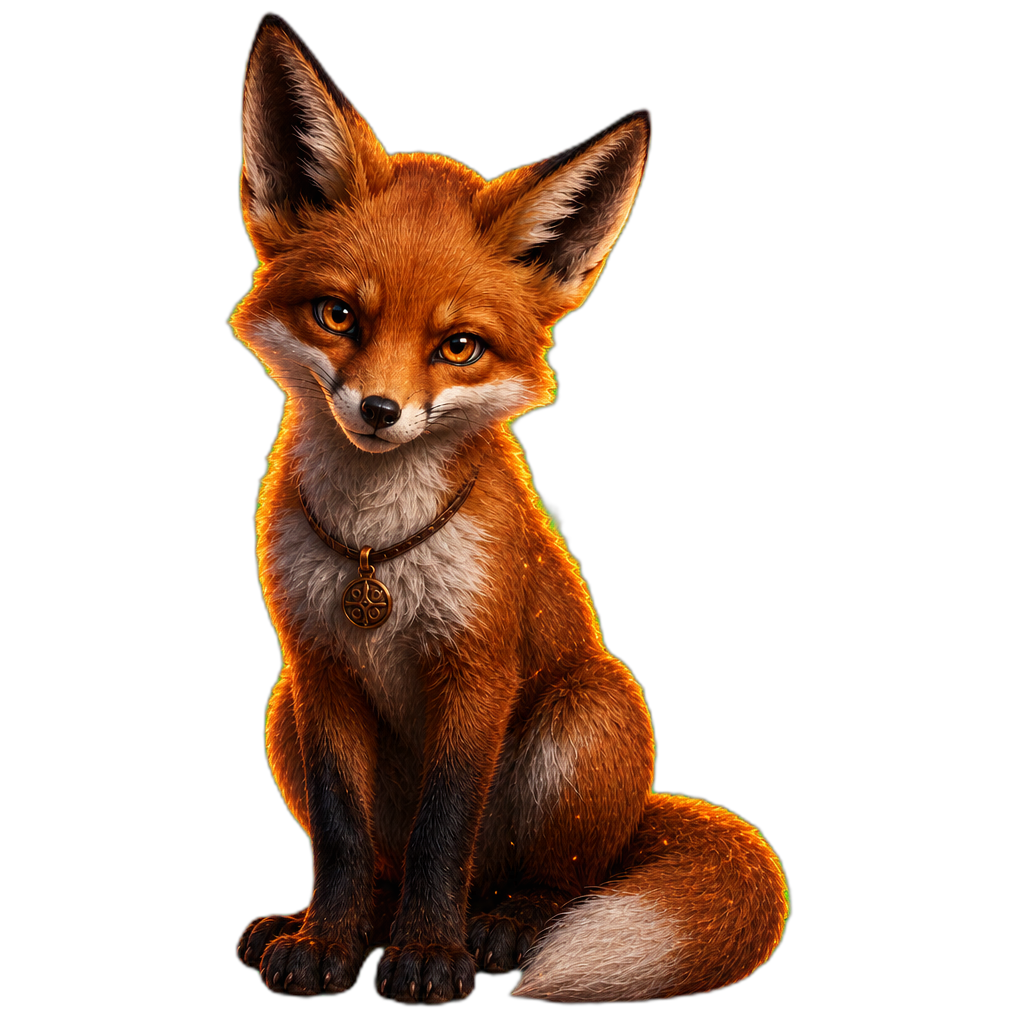
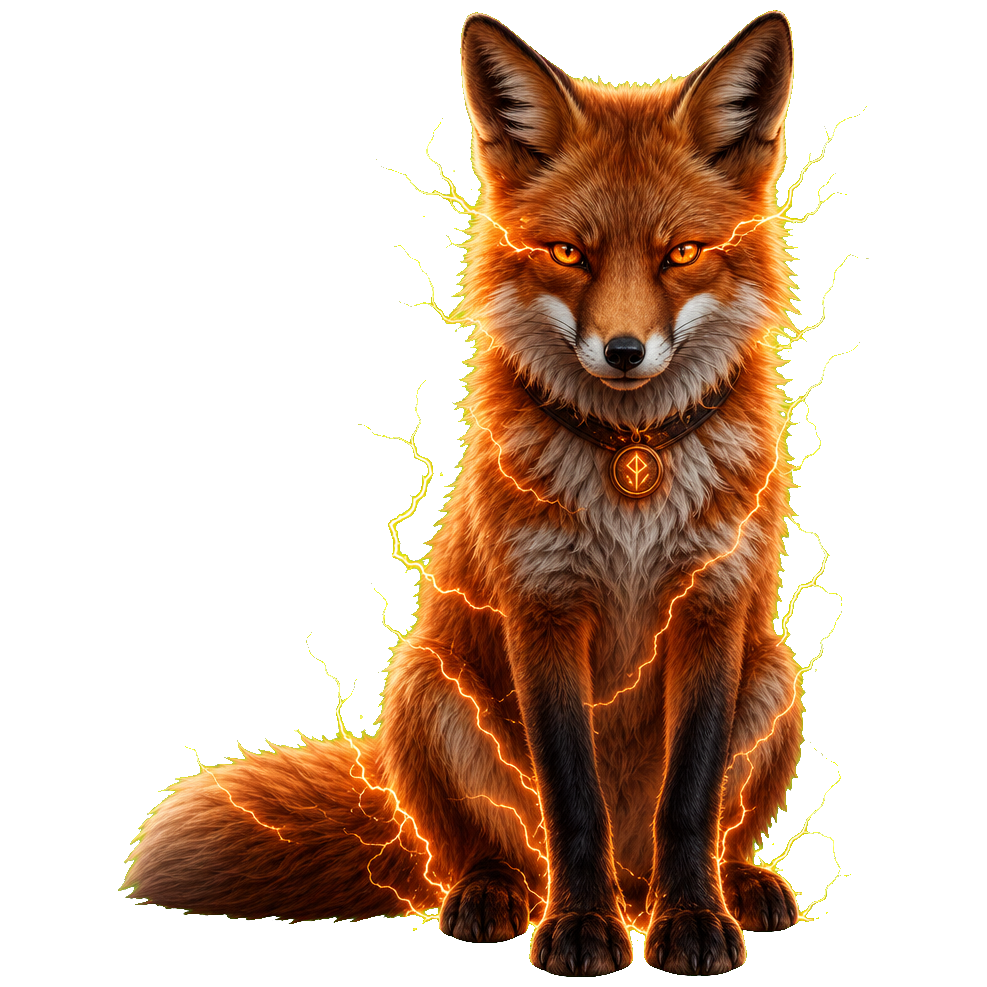
Restyle all companions in epic dark-fantasy boss style.
Glowing amber eyes, orange lightning energy and runic gear for cat, alabai, raven and fox; cache bust v48.

diff --git a/src/game/assetPaths.ts b/src/game/assetPaths.ts
@@ -14,7 +14,7 @@ import { getLegacyCodexBossManifestAssetId } from './manifestAssetUi';
 export const GAME_ASSET_BASE_PATH = '/game-assets';
 
 /** Bump when replacing PNGs so browsers reload public assets */
-export const GAME_ASSET_VERSION = '47';
+export const GAME_ASSET_VERSION = '48';
 
 /** Folder names under heroes/{gender}/variants/ */
 export type HeroAssetVariantFolder = 'dark-fantasy' | 'light';

diff --git a/docs/wiki/08-release-notes.md b/docs/wiki/08-release-notes.md
@@ -4,6 +4,7 @@
 
 ### Added
 
+- **Companions epic dark-fantasy set:** all 4 (cat, alabai, raven, fox) restyled with glowing amber eyes, orange lightning/energy, runic gear — matching boss-familiar reference; `GAME_ASSET_VERSION` 48.
 - **Hero fully opaque:** solid underpaint for clothing alpha holes + cache bust `GAME_ASSET_VERSION` 47; dashboard torso backlight removed.
 - **Hero opacity fix + companion redo:** fill transparent holes in black clothing; cat/dog restyled as dark-fantasy cutouts; companion sits beside feet (not over legs); `GAME_ASSET_VERSION` 46.
 - **Companion dark-fantasy restyle:** recognizable photo traits with amber rim / boss-mood lighting; dashboard hero floor glow so avatar no longer sinks into BG; `GAME_ASSET_VERSION` 45.

diff --git a/docs/wiki/00-project-state.md b/docs/wiki/00-project-state.md
@@ -50,7 +50,7 @@
 
 - **README:** v1.4 (пользовательская документация)
 - **package.json:** 1.0.0
-- **GAME_ASSET_VERSION:** 47
+- **GAME_ASSET_VERSION:** 48
 
 ## Sprint 1 — Accounts & Storage ✅ (production: PHP + MySQL)
 
